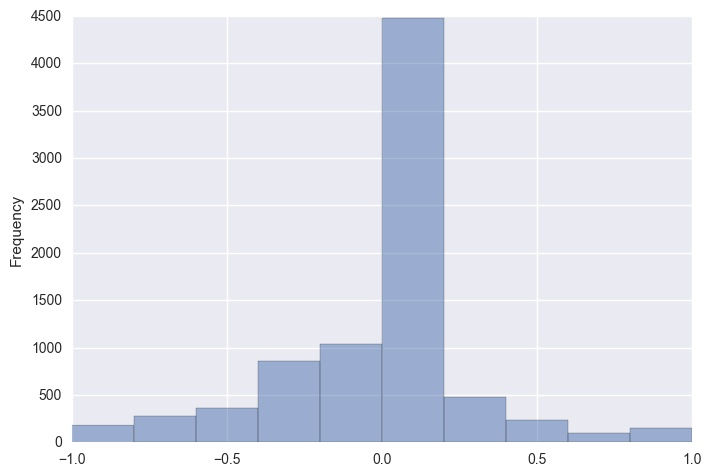
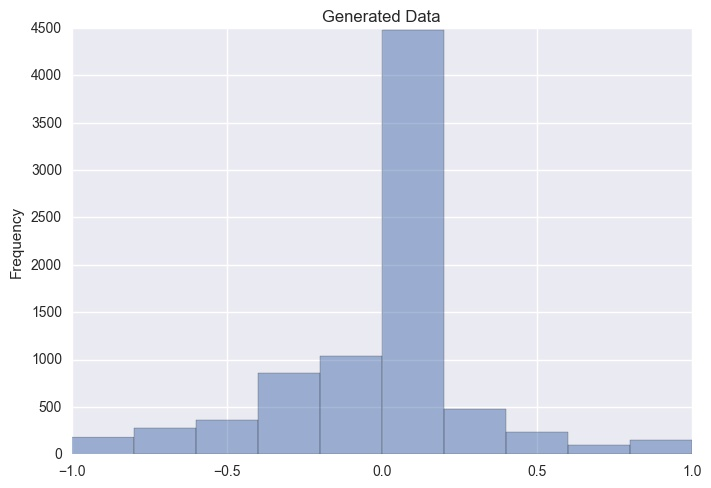
Added titles

diff --git a/tests.py b/tests.py
@@ -24,11 +24,12 @@ def read_images(path):
 import matplotlib.pyplot as plt
 import seaborn as sns
 
-data = pd.read_csv( "udacity_data/driving_log.csv", header=None, names=['center', 'left', 'right', 'angle', 'throttle', 'break', 'speed'])
+data = pd.read_csv( "track_one_data/driving_log.csv", header=None, names=['center', 'left', 'right', 'angle', 'throttle', 'break', 'speed'])
 s1 = data['angle']
 plt.figure()
 s1.plot.hist(alpha=0.5)
-plt.savefig('udacity_hist.jpg', bbox_inches='tight')
+plt.title("Generated Data")
+plt.savefig('my_hist.jpg', bbox_inches='tight')
 
 #%%
 import matplotlib.pyplot as plt
